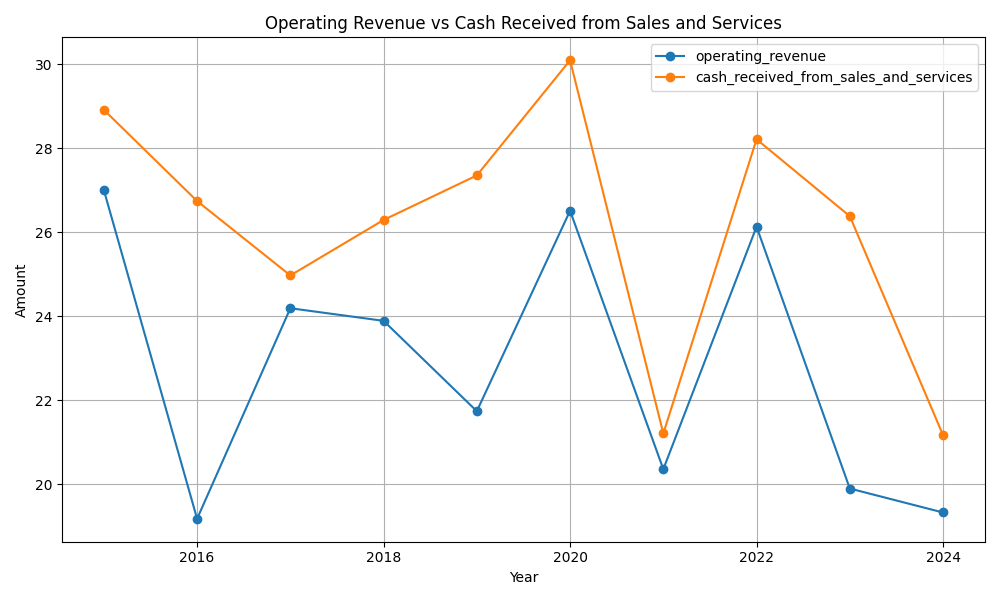
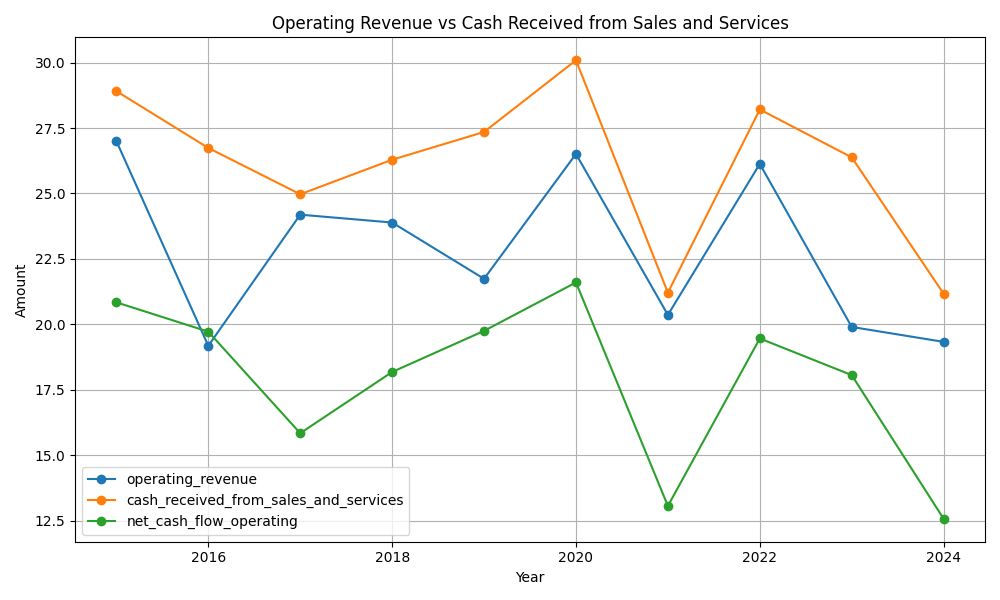
feat: 分析营收与经营现金流流入的关系分析中加入净经营现金流

diff --git a/code/qydl002039/qydl002039.py b/code/qydl002039/qydl002039.py
@@ -414,7 +414,7 @@ def qydl_operating_revenue_and_generation_output_analysis(json_data):
     except Exception:
         logger.exception(f"Failed to write operating revenue comparison to {out_file}")
 
-def qydl_operating_revenue_and_cash_received_from_sales_and_services_analysis(json_data):
+def qydl_operating_revenue_and_cash_flow_analysis(json_data):
     """
     Extract `operating_revenue` and `cash_received_from_sales_and_services` per year,
     save them to JSON and plot both series in a single chart (PNG).
@@ -430,6 +430,7 @@ def qydl_operating_revenue_and_cash_received_from_sales_and_services_analysis(js
     years = []
     op_vals = []
     cash_vals = []
+    net_cash_vals = []
 
     # collect numeric years and values
     for k, v in json_data.items():
@@ -455,13 +456,21 @@ def qydl_operating_revenue_and_cash_received_from_sales_and_services_analysis(js
         else:
             cashv = None
 
+        net = entry.get("net_cash_flow_operating")
+        if isinstance(net, (int, float)):
+            netv = round(float(net), 3)
+        else:
+            netv = None
+
         op_vals.append(opv)
         cash_vals.append(cashv)
+        net_cash_vals.append(netv)
 
     results = {
         "years": years,
         "operating_revenue": op_vals,
         "cash_received_from_sales_and_services": cash_vals,
+        "net_cash_flow_operating": net_cash_vals,
     }
 
     try:
@@ -481,10 +490,12 @@ def qydl_operating_revenue_and_cash_received_from_sales_and_services_analysis(js
         # matplotlib supports None as gap in data
         y1 = [v if v is not None else None for v in op_vals]
         y2 = [v if v is not None else None for v in cash_vals]
+        y3 = [v if v is not None else None for v in net_cash_vals]
 
         plt.figure(figsize=(10, 6))
         plt.plot(x, y1, marker="o", label="operating_revenue")
         plt.plot(x, y2, marker="o", label="cash_received_from_sales_and_services")
+        plt.plot(x, y3, marker="o", label="net_cash_flow_operating")
         plt.xlabel("Year")
         plt.ylabel("Amount")
         plt.title("Operating Revenue vs Cash Received from Sales and Services")
@@ -522,7 +533,11 @@ def qydl_generation_output_analysis(json_data):
     except Exception:
         logger.exception("Failed to run operating revenue vs generation_output analysis")
 
-    qydl_operating_revenue_and_cash_received_from_sales_and_services_analysis(json_data)
+    # 生成基于 generation_output 与 on_grid_price 的理论营收对比
+    try:
+        qydl_operating_revenue_and_cash_flow_analysis(json_data)
+    except Exception:
+        logger.exception("Failed to run operating revenue vs cash flow analysis")
 
 def main():
     # 读取并打印
